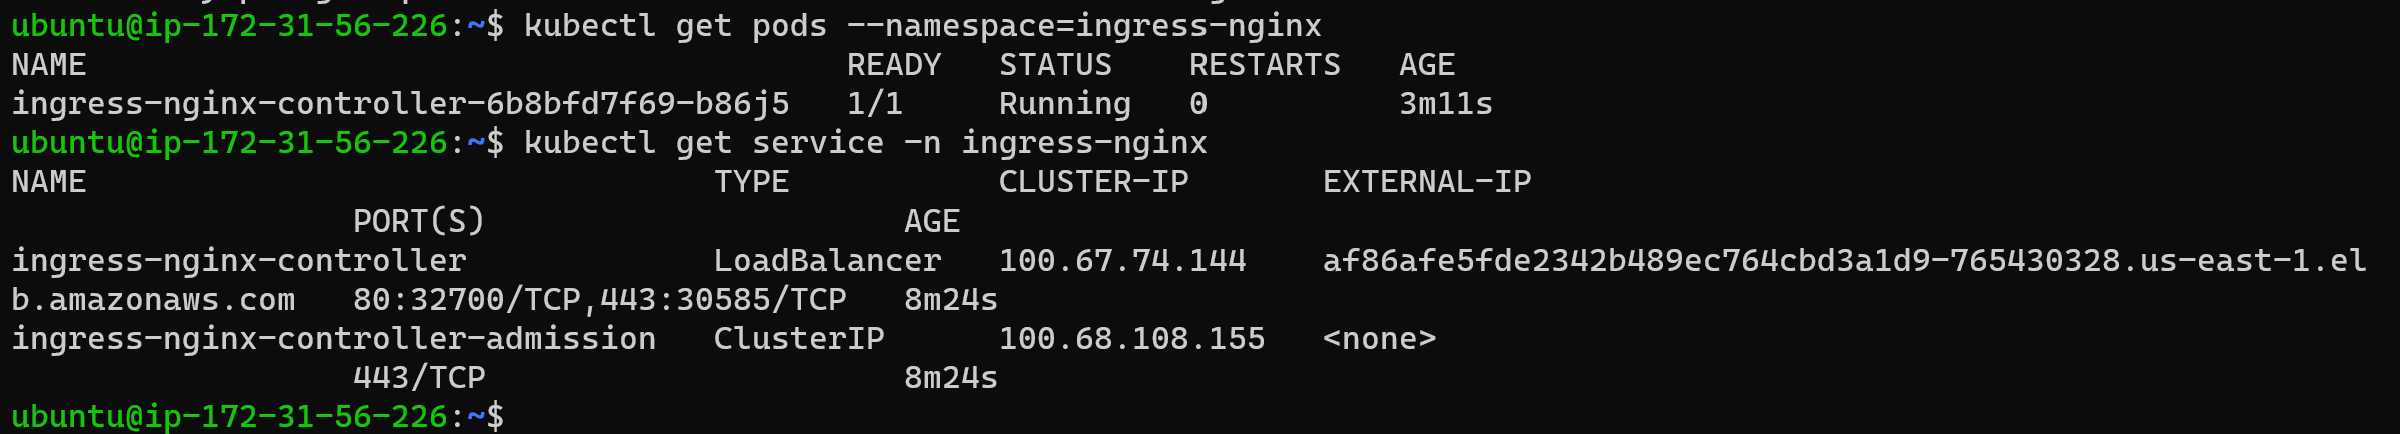
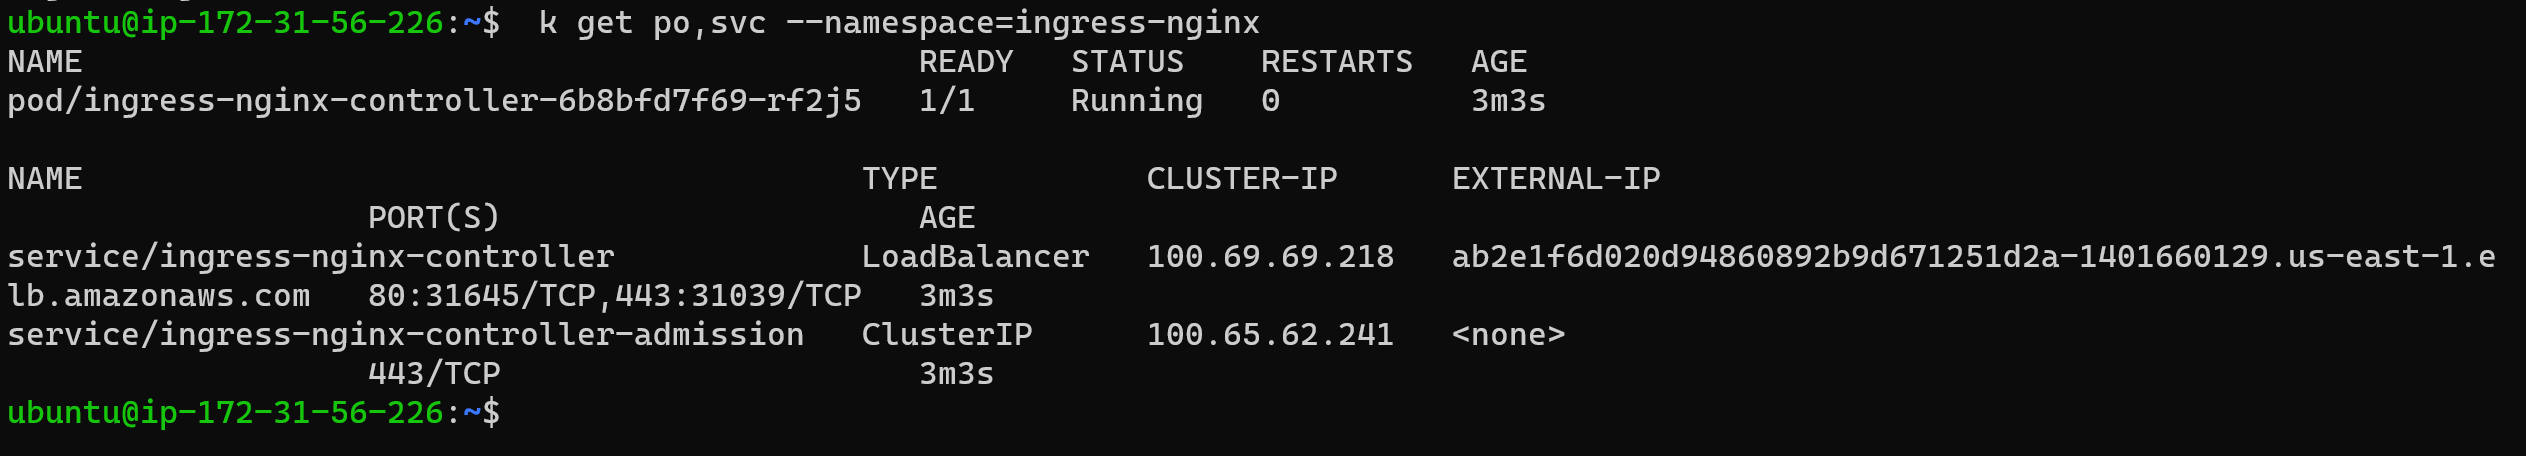
updated cluster issuer file

Changed region(s): [[0.0, 0.4493, 1.0, 0.9885], [0.0, 0.0, 0.625, 0.2696], [0.0, 0.2995, 0.6562, 0.4493]]

diff --git a/README.md b/README.md
@@ -74,12 +74,12 @@ helm upgrade --install ingress-nginx ingress-nginx \
   Verify ingress-nginx namespace is created
 
   ```bash
-  kubectl get pods --namespace=ingress-nginx
+  k get po,svc --namespace=ingress-nginx
   ```
 
 ![pods](/images/7.png)
 
-Verify ingress Load balance 
+Verify ingress Load balancer 
 
 ![pods](/images/8.png)
 
@@ -166,7 +166,7 @@ kubectl apply -f https://github.com/cert-manager/cert-manager/releases/download/
 $ helm repo add jetstack https://charts.jetstack.io
 
 ## Install the cert-manager helm chart
-$ helm install my-release --namespace cert-manager --version v1.11.1 jetstack/cert-manager
+$ helm install my-release --namespace cert-manager --version v1.11.1 jetstack/cert-manager --create-namespace
 ```
 
 ![pods](/images/16.png)
@@ -190,16 +190,22 @@ spec:
     solvers:
     - selector:
         dnsZones:
-          - "oayanda.com"
+          - "tooling.artifactory.oayanda.com"
+
       dns01:
         route53:
-          region: "us-east-1"   
-          hostedZoneID: "Z0700823YVKJ6JAO67K0"
+          region: "us-east-1"
+          role: "arn:aws:iam::737237029972:role/dns-manager"
+          hostedZoneID: <"Enter-Your-HostedZone-Here">
+          accessKeyID: <Enter-your-access-key-here>
+          secretAccessKeySecretRef:
+            name: aws-secret
+            key: secret-access-key
 ```
 Make sure to update the manifest file and apply.
 
 ```bash
-k apply -f issuer.yaml
+k apply -f cluster-issuer.yaml
 ```
 ![pods](/images/17.png)
 
